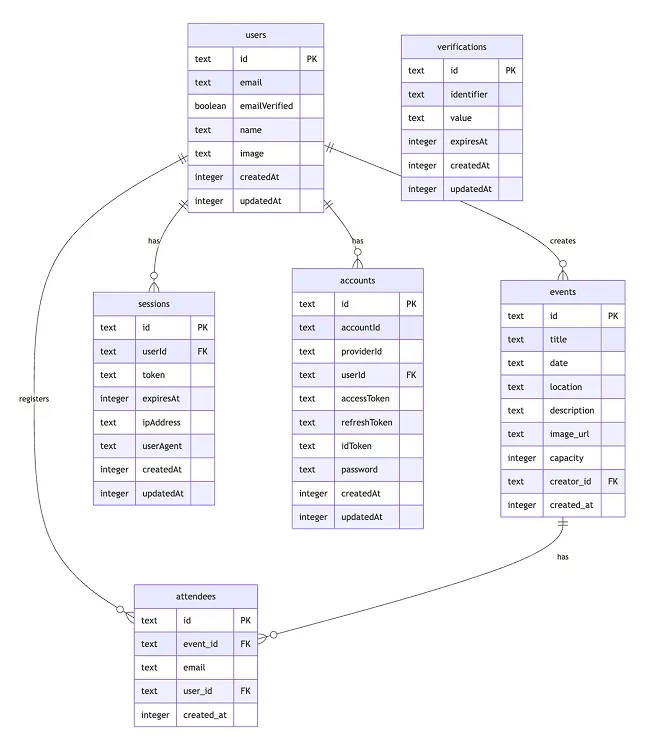
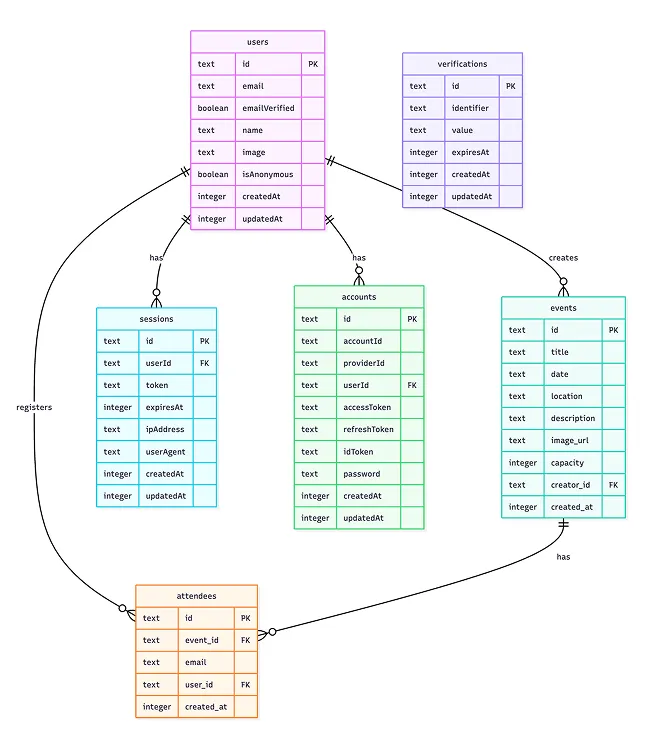
docs: update README

diff --git a/README.md b/README.md
@@ -84,6 +84,7 @@ React の実践型学習プラットフォーム [React Road](https://react-road
 - [x] **状態管理** - Zustand による効率的な状態管理 [#29](https://github.com/oumelab/demo-react-event-calendar/issues/29)
 - [x] **ルーティング** - React Router v6 → v7 へのアップデート
 - [x] **イベント申し込み・キャンセル機能** - 参加申し込みとキャンセル機能 [#5](https://github.com/oumelab/demo-react-event-calendar/issues/5)
+- [x] **Anonymous 認証** - 登録なしでゲストとしてイベント申し込みが可能、本アカウントへデータ移行も可能 [#43]
 
 ### 実装予定機能
 
@@ -103,7 +104,7 @@ React の実践型学習プラットフォーム [React Road](https://react-road
 | **データベース**       | Turso（libSQL）                                      |
 | **認証**               | Better Auth                                          |
 | **デプロイ**           | Cloudflare Pages                                     |
-| **開発ツール**         | TypeScript, bun                                      |
+| **開発ツール**         | TypeScript, Bun                                      |
 
 ## 📊 プロジェクト構成図
 
@@ -119,36 +120,36 @@ React の実践型学習プラットフォーム [React Road](https://react-road
 <details>
   <summary>Mermaid</summary>
 
-  ```mermaid
-  graph TB
-      subgraph "クライアント（ブラウザ）"
-          React[React App<br/>Vite + TypeScript]
-          Zustand[Zustand<br/>状態管理]
-          TanStack[TanStack Query<br/>サーバー状態]
-          ReactRouter[React Router v7<br/>ルーティング]
-      end
+```mermaid
+---
+config:
+  theme: neo
+---
+graph TB
+    subgraph "クライアント（ブラウザ）"
+        React[React App<br/>Vite + TypeScript]
+        Zustand[Zustand<br/>状態管理]
+        TanStack[TanStack Query<br/>サーバー状態]
+        ReactRouter[React Router v7<br/>ルーティング]
+    end
+    subgraph "Cloudflare Pages"
+        StaticFiles[静的ファイル配信]
+        Functions[Pages Functions<br/>API endpoints]
+    end
+    subgraph "データベース"
+        Turso[(Turso libSQL)]
+    end
+    subgraph "認証"
+        BetterAuth[Better Auth<br/>セッション管理]
+    end
+    React --> StaticFiles
+    TanStack --> Functions
+    Zustand -.-> TanStack
+    Functions --> Turso
+    Functions --> BetterAuth
+    BetterAuth --> Turso
+```
 
-      subgraph "Cloudflare Pages"
-          StaticFiles[静的ファイル配信]
-          Functions[Pages Functions<br/>API endpoints]
-      end
-
-      subgraph "データベース"
-          Turso[(Turso libSQL)]
-      end
-
-      subgraph "認証"
-          BetterAuth[Better Auth<br/>セッション管理]
-      end
-
-      React --> StaticFiles
-      TanStack --> Functions
-      Zustand -.-> TanStack
-      Functions --> Turso
-      Functions --> BetterAuth
-      BetterAuth --> Turso
-
-  ```
 </details>
 
 ### 🗄 データベース構成（ER 図）
@@ -164,6 +165,10 @@ React の実践型学習プラットフォーム [React Road](https://react-road
   <summary>Mermaid</summary>
 
 ```mermaid
+---
+config:
+  theme: redux-color
+---
 erDiagram
     users {
         text id PK
@@ -171,6 +176,7 @@ erDiagram
         boolean emailVerified
         text name
         text image
+        boolean isAnonymous
         integer createdAt
         integer updatedAt
     }
@@ -250,50 +256,128 @@ erDiagram
   <summary>Mermaid</summary>
 
 ```mermaid
+---
+config:
+  theme: redux-color
+---
 sequenceDiagram
     participant U as User
     participant C as Component
     participant Z as Zustand Store
     participant T as TanStack Query
-    participant A as API Functions
+    participant A as Better Auth API
     participant D as Database
 
     U->>C: ログインボタンクリック
-    C->>T: useMutation.mutate()
-    T->>A: POST /api/auth/sign-in
-    A->>D: ユーザー認証
-    D-->>A: セッション作成
+    C->>T: authClient.signIn.email()
+    T->>A: Better Auth認証
+    A->>D: ユーザー認証・セッション作成
+    D-->>A: 認証結果
     A-->>T: レスポンス返却
-    T->>T: onSuccess()
     T->>Z: ユーザー情報を更新
     Z-->>C: 状態変更通知
     C-->>U: UI更新
 ```
-</details>
 
+</details>
 
 ### 🌐 API エンドポイント構成
 
 ### **🗓 イベント管理**
-| エンドポイント            | メソッド | 認証 | 説明           |
-| ------------------------- | -------- | ---- | -------------- |
+
+| エンドポイント            | メソッド | 認証 | 説明             |
+| ------------------------- | -------- | ---- | ---------------- |
 | `/api/events`             | GET      | -    | イベント一覧取得 |
 | `/api/events/[id]`        | GET      | -    | イベント詳細取得 |
-| `/api/events/create`      | POST     | ✅   | イベント作成   |
-| `/api/events/[id]/update` | PUT      | ✅   | イベント更新   |
-| `/api/events/[id]/delete` | DELETE   | ✅   | イベント削除   |
+| `/api/events/create`      | POST     | ✅   | イベント作成     |
+| `/api/events/[id]/update` | PUT      | ✅   | イベント更新     |
+| `/api/events/[id]/delete` | DELETE   | ✅   | イベント削除     |
 
 ### **📝 イベント参加**
-| エンドポイント            | メソッド | 認証 | 説明                     |
-| ------------------------- | -------- | ---- | ------------------------ |
-| `/api/events/[id]/apply`  | POST     | ✅   | イベント申し込み         |
-| `/api/events/[id]/cancel` | DELETE   | ✅   | イベント申し込みキャンセル |
-| `/api/user/registrations` | GET      | ✅   | ユーザー申し込み履歴取得  |
 
-### **🔐 認証**
-| エンドポイント      | メソッド | 認証 | 説明               |
+| エンドポイント            | メソッド | 認証 | 説明                       |
+| ------------------------- | -------- | ---- | -------------------------- |
+| `/api/events/[id]/apply`  | POST     | ✅   | イベント申し込み           |
+| `/api/events/[id]/cancel` | DELETE   | ✅   | イベント申し込みキャンセル |
+| `/api/user/registrations` | GET      | ✅   | ユーザー申し込み履歴取得   |
+
+### **🔐 認証システム**
+
+Better Auth による統一認証エンドポイント
+| エンドポイント | メソッド | 認証 | 説明 |
 | ------------------- | -------- | ---- | ------------------ |
-| `/api/auth/sign-in` | POST     | -    | ユーザーログイン   |
-| `/api/auth/sign-up` | POST     | -    | ユーザー新規登録   |
-| `/api/auth/sign-out`| POST     | ✅   | ユーザーログアウト |
-| `/api/auth/session` | GET      | -    | セッション情報取得 |
+| `/api/auth/sign-in` | POST | - | ユーザーログイン |
+| `/api/auth/sign-up` | POST | - | ユーザー新規登録 |
+| `/api/auth/sign-out`| POST | ✅ | ユーザーログアウト |
+| `/api/auth/session` | GET | - | セッション情報取得 |
+
+> Note: Better Auth の [[catchall]] ハンドラーにより、認証関連のエンドポイントは自動的に提供されます。
+
+## 🚀 Anonymous 認証の特徴
+
+### ゲストユーザー体験
+
+- 登録なしで即体験: 面倒な会員登録なしでイベントの閲覧・申し込みが可能
+- 一時的なデータ保存: 申し込み履歴は匿名ユーザー ID で一時保存
+- スムーズなアップグレード: ワンクリックで正規ユーザーに移行
+
+### データ移行システム
+
+<a href="./public/docs/anonymous-login-flow.png" target="_blank">
+  <picture>
+    <source srcset="./public/docs/anonymous-login-flow.webp" type="image/webp" />
+    <img src="./public/docs/anonymous-login-flow.png" alt="状態管理フロー" width="100%" style="border-radius: 8px; box-shadow: 0 4px 8px rgba(0,0,0,0.1);" />
+  </picture>
+</a>
+
+<details>
+  <summary>Mermaid</summary>
+
+```mermaid
+graph LR
+    A[ゲストユーザー] --> B[イベント申し込み]
+    B --> C[一時データ保存]
+    C --> D[アカウント作成]
+    D --> E[データ自動移行]
+    E --> F[正規ユーザー]
+
+    style A fill:#e1f5fe
+    style F fill:#e8f5e8
+    style E fill:#fff3e0
+```
+
+</details>
+
+### 移行されるデータ
+
+- ✅ イベント申し込み履歴
+- ✅ ユーザー設定・preferences
+- ✅ セッション情報
+
+## 🔧 開発環境
+
+### 必要なツール
+
+- Node.js: 22.16.0 (.nvmrc で指定)
+- パッケージマネージャー: bun
+- TypeScript: ^5.7.2
+
+### 開発サーバー起動
+
+```bash
+# フロントエンド (Vite)
+bun run dev
+
+# バックエンド (Wrangler + Vite)
+bunx wrangler pages dev -- bun run dev
+```
+
+### ビルド・プレビュー
+
+```bash
+# ビルド
+bun run build
+
+# プレビュー
+bun run preview
+```
